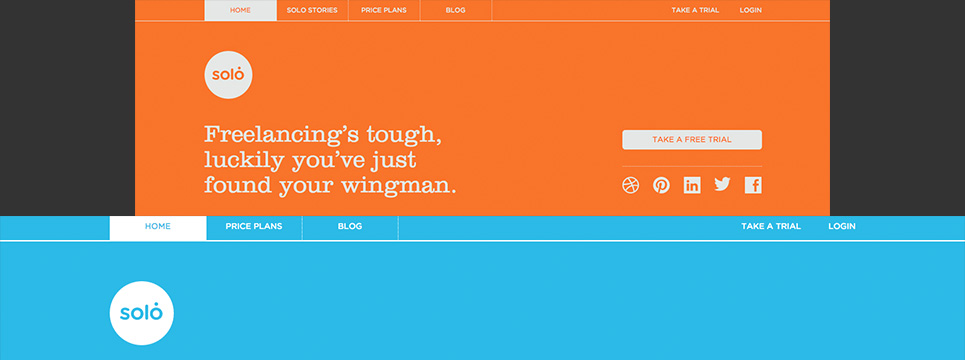
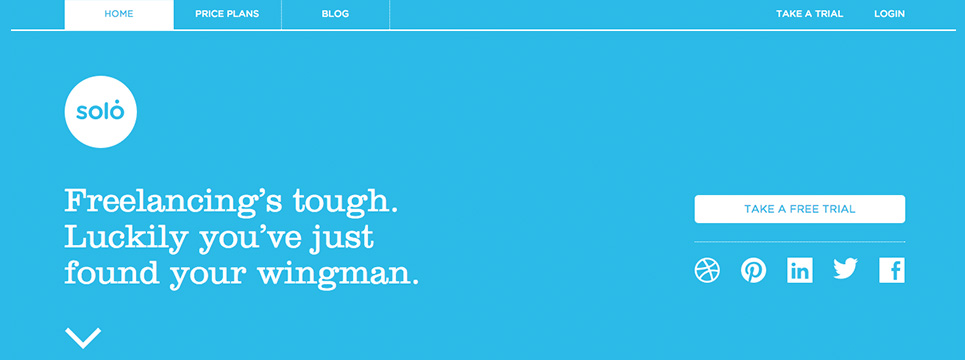
Component 1

diff --git a/components/1/component.css b/components/1/component.css
@@ -2,11 +2,145 @@
 ================================================================================
 COMPONENT STYLESHEET
 ================================================================================ */
+html { font-size: 62.5%; }
 body {
+    background: #2cbae7;
+    color: #fff;
+    font: 1.6em 'Open Sans', sans-serif;
+}
+
+a {
+    color: #fff;
+}
+
+h1 {
+    font: 3.2rem 'Libre Baskerville', serif;
 }
 
 nav {
-    
+    font: 1rem;
+}
+
+nav ul {
+    width: 100%;
+    display: inline-block;
+    border-bottom: 2px solid #fff;
+    padding-left: calc(100% / 12);
+    height: 100%;
+}
+
+nav li {
+    font-size: 1rem;
+    display: inline-block;
+    float: left;
+    padding: .8rem 0;
+    text-align: center;
+    text-transform: uppercase;
+    width: calc(100% / 12 * 1.5);
+    border-left: 1px solid #fff;
+}
+
+nav li:nth-child(3) {
+    border-right: 1px solid #fff;
+}
+
+nav li:nth-child(4), nav li:nth-child(5) {
+    float: right;
+    border: none;
+    width: calc(100% / 12 * 1.5);
+}
+
+nav #current {
+    background:  #fff;
+}
+
+nav #current a {
+    color: #2cbae7;
 }
 
 /* HEADER ======================================== */
+article {
+    width: 50%;
+    float: left;
+    padding: 5rem 10rem;
+    position: relative;
+}
+img[alt^="Solo"] {
+    height: 98px;
+    margin-bottom: 3rem;
+}
+
+article > p {
+    display: block;
+    background: #fff;
+    border-radius: 5px;
+    text-align: center;
+    float: right;
+    padding: .3rem 0 .5rem;
+    margin-top: 15rem;
+    cursor: pointer;
+}
+
+article > p a {
+    color: #2cbae7;
+    padding: 0 6.2rem; 
+    font-size: 1.2rem;
+    text-transform: uppercase; 
+}
+
+h1 + p {
+    background: url(images/arrowDown.svg) no-repeat;
+    margin: 50px 0;
+    float: left;
+    text-indent: -9999px;
+}
+
+article ul {
+    border-top: 1px solid #fff;
+    margin-top: 2rem;
+    float: right;
+    padding-top: 2rem;
+    clear: right;
+}
+
+article li {
+    display: inline-block;   
+    margin-right: 1.5rem;
+}
+
+article li:last-child {
+    margin-right: 0;
+}
+
+article li a {
+    display: block; 
+    width: 3rem;
+    height: 3rem;
+    background: #ccc;
+    text-indent: -9999px;
+}
+
+a[href*="dribbble"] {
+    background: url(images/dribbble.svg) no-repeat;
+    background-size: 3rem;
+}
+
+a[href*="pinterest"] {
+    background: url(images/pinterest.svg) no-repeat;
+    background-size: 3rem;
+}
+
+a[href*="linkedin"] {
+    background: url(images/linkedin.svg) no-repeat;
+    background-size: 3rem;
+}
+
+a[href*="twitter"] {
+    background: url(images/twitter.svg) no-repeat;
+    background-size: 3rem;
+}
+
+a[href*="facebook"] {
+    background: url(images/facebook.svg) no-repeat;
+    background-size: 3rem;
+}

diff --git a/components/1/component.html b/components/1/component.html
@@ -4,33 +4,40 @@
 	<title>WSP Component: Michelle Munksgard</title>
 	<link rel="stylesheet" type="text/css" href="../../css/reset.css" />
 	<link rel="stylesheet" type="text/css" href="component.css" />
+    <link href='http://fonts.googleapis.com/css?family=Open+Sans' rel='stylesheet' type='text/css'>
+    <link href='http://fonts.googleapis.com/css?family=Libre+Baskerville' rel='stylesheet' type='text/css'>
 </head>
 <body>
 
 	<!-- Component -->
     <nav>
         <ul>
-            <li><a href="#">Home</a></li>
-            <li><a href="#">Solo Stories</a></li>
+            <li id="current"><a href="#">Home</a></li>
             <li><a href="#">Price Plans</a></li>
             <li><a href="#">Blog</a></li>
-
-            <li><a href="">Take a Trial</a></li>
             <li><a href="">Login</a></li>
+            <li><a href="">Take a Trial</a></li>
+            
         </ul>
     </nav>
     <header>
-        <img src="" alt="Solo Logo">
-        <h1>Freelancing's tough, luckily you've just found your wingman.</h1>
-
-        <p><a href="#">Take a Trial</a></p>
-        <ul>
-            <li><a href="#">Dribbble</a></li>
-            <li><a href="#">Pinterest</a></li>
-            <li><a href="#">LinkedIn</a></li>
-            <li><a href="#">Twitter</a></li>
-            <li><a href="#">Facebook</a></li>
-        </ul>
+        <article>
+            <img src="images/soloLogo.svg" alt="Solo Logo">
+            <h1>Freelancing's tough. Luckily you've just found your wingman.</h1>
+            <p>Scroll Down</p>
+            
+        </article>
+        
+        <article>
+            <p><a href="#">Take a Free Trial</a></p>
+            <ul>
+                <li><a href="http://www.dribbble.com">Dribbble</a></li>
+                <li><a href="http://www.pinterest.com">Pinterest</a></li>
+                <li><a href="http://www.linkedin.com">LinkedIn</a></li>
+                <li><a href="http://www.twitter.com">Twitter</a></li>
+                <li><a href="http://www.facebook.com">Facebook</a></li>
+            </ul>
+        </article>
     </header>
     
     
